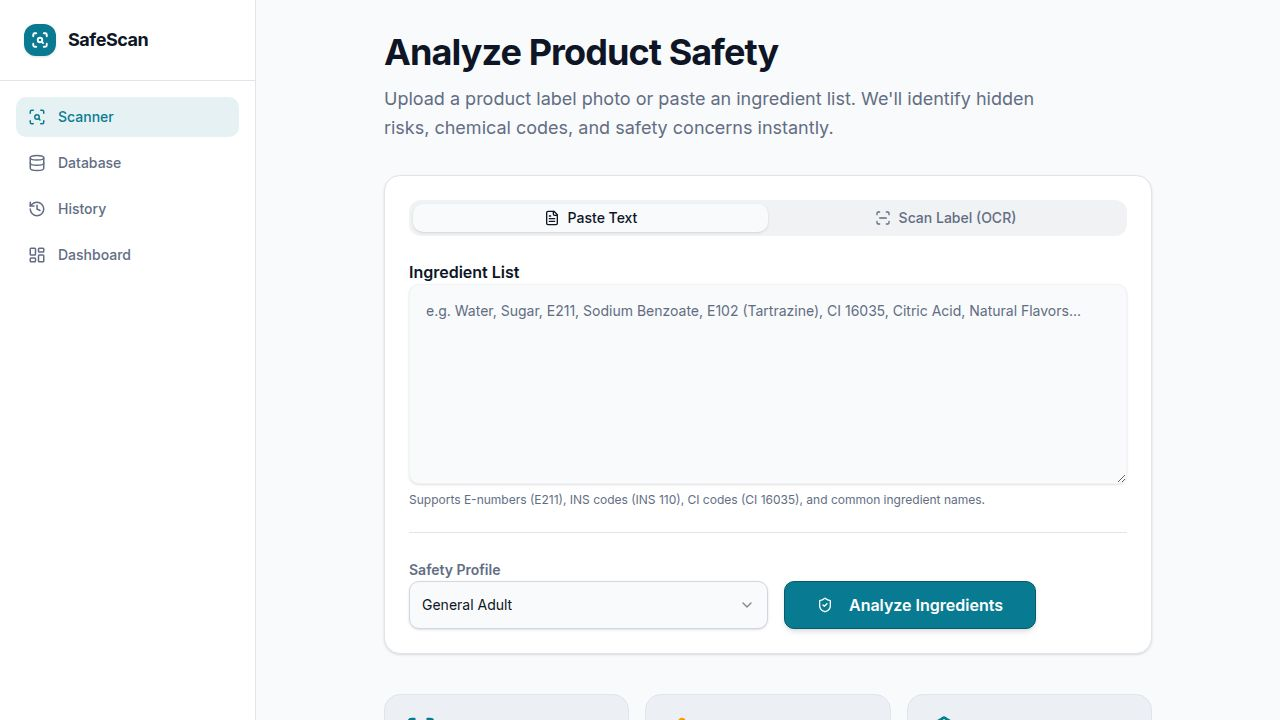
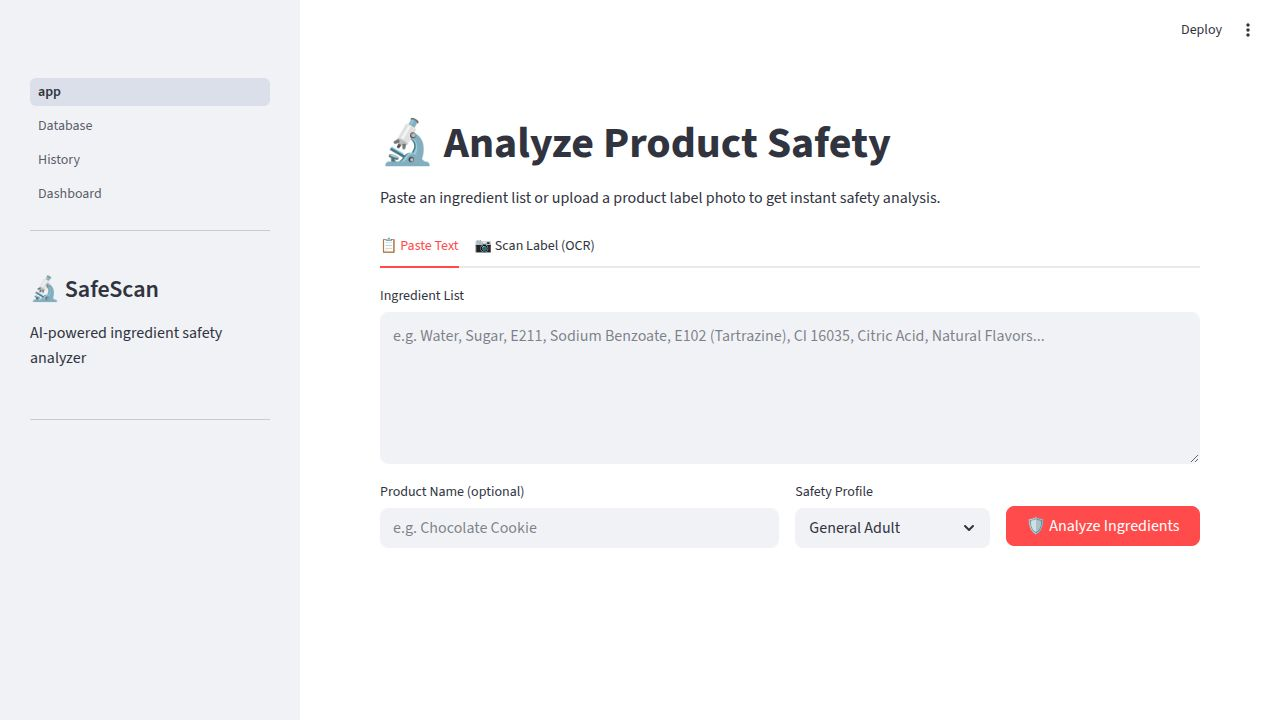
Improve image processing for accurate OCR extraction
Introduce an image enhancement module with options for upscaling, denoising, contrast adjustment, and more, integrated into the OCR tab for before/after comparison and user control.

Replit-Commit-Author: Agent
Replit-Commit-Session-Id: 01482dd7-11a2-4205-9c79-28d7f31dc8f4
Replit-Commit-Checkpoint-Type: full_checkpoint
Replit-Commit-Event-Id: 81c42d59-485f-40d7-bfc3-b8651a94a8b6
Replit-Commit-Screenshot-Url: https://storage.googleapis.com/screenshot-production-us-central1/8c9db342-34e8-4ade-9483-2f70121ae9e6/01482dd7-11a2-4205-9c79-28d7f31dc8f4/ZxV4JvU
Replit-Helium-Checkpoint-Created: true

diff --git a/artifacts/ingredient-scanner/streamlit_app/image_enhancer.py b/artifacts/ingredient-scanner/streamlit_app/image_enhancer.py
@@ -1,0 +1,161 @@
+import cv2
+import numpy as np
+from PIL import Image
+import io
+
+
+def pil_to_cv(img: Image.Image) -> np.ndarray:
+    img_rgb = img.convert("RGB")
+    return cv2.cvtColor(np.array(img_rgb), cv2.COLOR_RGB2BGR)
+
+
+def cv_to_pil(img: np.ndarray) -> Image.Image:
+    rgb = cv2.cvtColor(img, cv2.COLOR_BGR2RGB)
+    return Image.fromarray(rgb)
+
+
+def upscale(img: np.ndarray, target_min_dim: int = 1800) -> np.ndarray:
+    h, w = img.shape[:2]
+    min_dim = min(h, w)
+    if min_dim < target_min_dim:
+        scale = target_min_dim / min_dim
+        new_w = int(w * scale)
+        new_h = int(h * scale)
+        img = cv2.resize(img, (new_w, new_h), interpolation=cv2.INTER_LANCZOS4)
+    return img
+
+
+def remove_glare_and_shadows(img: np.ndarray) -> np.ndarray:
+    lab = cv2.cvtColor(img, cv2.COLOR_BGR2LAB)
+    l, a, b = cv2.split(lab)
+
+    kernel_size = max(img.shape[0] // 10, img.shape[1] // 10)
+    if kernel_size % 2 == 0:
+        kernel_size += 1
+    kernel_size = max(kernel_size, 51)
+
+    bg = cv2.GaussianBlur(l, (kernel_size, kernel_size), 0)
+    diff = cv2.subtract(bg, l)
+    norm = cv2.normalize(diff, None, 0, 255, cv2.NORM_MINMAX)
+    l_corrected = cv2.subtract(255, norm)
+
+    lab_corrected = cv2.merge([l_corrected, a, b])
+    result = cv2.cvtColor(lab_corrected, cv2.COLOR_LAB2BGR)
+    return result
+
+
+def denoise(img: np.ndarray) -> np.ndarray:
+    return cv2.fastNlMeansDenoisingColored(img, None, h=8, hColor=8, templateWindowSize=7, searchWindowSize=21)
+
+
+def deskew(img: np.ndarray) -> np.ndarray:
+    gray = cv2.cvtColor(img, cv2.COLOR_BGR2GRAY)
+    gray_inv = cv2.bitwise_not(gray)
+    thresh = cv2.threshold(gray_inv, 0, 255, cv2.THRESH_BINARY | cv2.THRESH_OTSU)[1]
+
+    coords = np.column_stack(np.where(thresh > 0))
+    if len(coords) < 10:
+        return img
+
+    angle = cv2.minAreaRect(coords)[-1]
+    if angle < -45:
+        angle = 90 + angle
+    elif angle > 45:
+        angle = angle - 90
+
+    if abs(angle) < 0.5:
+        return img
+
+    (h, w) = img.shape[:2]
+    center = (w // 2, h // 2)
+    M = cv2.getRotationMatrix2D(center, angle, 1.0)
+    rotated = cv2.warpAffine(img, M, (w, h), flags=cv2.INTER_CUBIC,
+                              borderMode=cv2.BORDER_REPLICATE)
+    return rotated
+
+
+def enhance_contrast(img: np.ndarray) -> np.ndarray:
+    lab = cv2.cvtColor(img, cv2.COLOR_BGR2LAB)
+    l, a, b = cv2.split(lab)
+    clahe = cv2.createCLAHE(clipLimit=2.5, tileGridSize=(8, 8))
+    l_enhanced = clahe.apply(l)
+    lab_enhanced = cv2.merge([l_enhanced, a, b])
+    return cv2.cvtColor(lab_enhanced, cv2.COLOR_LAB2BGR)
+
+
+def sharpen(img: np.ndarray) -> np.ndarray:
+    kernel = np.array([
+        [ 0, -1,  0],
+        [-1,  5, -1],
+        [ 0, -1,  0],
+    ], dtype=np.float32)
+    sharpened = cv2.filter2D(img, -1, kernel)
+
+    blurred = cv2.GaussianBlur(img, (0, 0), 3)
+    usm = cv2.addWeighted(img, 1.5, blurred, -0.5, 0)
+    result = cv2.addWeighted(sharpened, 0.5, usm, 0.5, 0)
+    return result
+
+
+def clean_background(img: np.ndarray) -> np.ndarray:
+    gray = cv2.cvtColor(img, cv2.COLOR_BGR2GRAY)
+    _, mask = cv2.threshold(gray, 0, 255, cv2.THRESH_BINARY + cv2.THRESH_OTSU)
+    kernel = cv2.getStructuringElement(cv2.MORPH_RECT, (3, 3))
+    mask = cv2.morphologyEx(mask, cv2.MORPH_CLOSE, kernel, iterations=2)
+    mask = cv2.morphologyEx(mask, cv2.MORPH_OPEN, kernel, iterations=1)
+    result = img.copy()
+    result[mask == 0] = 255
+    blended = cv2.addWeighted(img, 0.7, result, 0.3, 0)
+    return blended
+
+
+def enhance_for_ocr(pil_image: Image.Image, steps: dict | None = None) -> tuple[Image.Image, list[str]]:
+    if steps is None:
+        steps = {
+            "upscale": True,
+            "glare_shadow": True,
+            "denoise": True,
+            "deskew": True,
+            "contrast": True,
+            "sharpen": True,
+            "background": True,
+        }
+
+    img = pil_to_cv(pil_image)
+    applied = []
+
+    if steps.get("upscale", True):
+        img = upscale(img)
+        applied.append("Resolution upscaling")
+
+    if steps.get("glare_shadow", True):
+        img = remove_glare_and_shadows(img)
+        applied.append("Glare & shadow removal")
+
+    if steps.get("denoise", True):
+        img = denoise(img)
+        applied.append("Denoising")
+
+    if steps.get("deskew", True):
+        img = deskew(img)
+        applied.append("Text straightening (deskew)")
+
+    if steps.get("contrast", True):
+        img = enhance_contrast(img)
+        applied.append("Contrast enhancement (CLAHE)")
+
+    if steps.get("sharpen", True):
+        img = sharpen(img)
+        applied.append("Sharpening (USM + kernel)")
+
+    if steps.get("background", True):
+        img = clean_background(img)
+        applied.append("Background cleaning")
+
+    return cv_to_pil(img), applied
+
+
+def image_to_bytes(pil_image: Image.Image, fmt: str = "PNG") -> bytes:
+    buf = io.BytesIO()
+    pil_image.save(buf, format=fmt)
+    return buf.getvalue()

diff --git a/artifacts/ingredient-scanner/streamlit_app/app.py b/artifacts/ingredient-scanner/streamlit_app/app.py
@@ -1,11 +1,13 @@
 import streamlit as st
 import sys
 import os
+import io
 
 sys.path.insert(0, os.path.dirname(__file__))
 
 from database import init_db, save_scan
 from scan_engine import analyze_ingredients
+from image_enhancer import enhance_for_ocr, image_to_bytes
 
 init_db()
 
@@ -55,24 +57,111 @@ with tab_ocr:
     ocr_text = ""
     if uploaded_file is not None:
         from PIL import Image
-        import io
-        img = Image.open(uploaded_file)
-        st.image(img, caption="Uploaded label", use_container_width=True)
+        orig_img = Image.open(uploaded_file)
 
-        try:
-            import easyocr
-            with st.spinner("Reading text from image..."):
-                reader = easyocr.Reader(["en"], gpu=False)
-                img_bytes = io.BytesIO()
-                img.save(img_bytes, format="PNG")
-                result = reader.readtext(img_bytes.getvalue(), detail=0)
-                ocr_text = ", ".join(result)
-                st.success("Text extracted successfully!")
-                st.text_area("Extracted Text", ocr_text, height=120, key="ocr_result")
-        except ImportError:
-            st.warning("EasyOCR is not installed. Please install it with: `pip install easyocr`")
-        except Exception as e:
-            st.error(f"OCR failed: {e}")
+        st.markdown("#### Image Enhancement Options")
+        st.caption("Each step is applied in sequence to maximise OCR accuracy.")
+
+        enh_col1, enh_col2, enh_col3, enh_col4 = st.columns(4)
+        with enh_col1:
+            do_upscale   = st.checkbox("Resolution upscaling",      value=True, key="enh_upscale")
+            do_glare     = st.checkbox("Glare & shadow removal",    value=True, key="enh_glare")
+        with enh_col2:
+            do_denoise   = st.checkbox("Denoising",                 value=True, key="enh_denoise")
+            do_deskew    = st.checkbox("Text straightening",        value=True, key="enh_deskew")
+        with enh_col3:
+            do_contrast  = st.checkbox("Contrast enhancement",      value=True, key="enh_contrast")
+            do_sharpen   = st.checkbox("Sharpening",                value=True, key="enh_sharpen")
+        with enh_col4:
+            do_background = st.checkbox("Background cleaning",      value=True, key="enh_bg")
+            run_enhance  = st.button("✨ Enhance Image",            key="btn_enhance", use_container_width=True)
+
+        steps = {
+            "upscale":      do_upscale,
+            "glare_shadow": do_glare,
+            "denoise":      do_denoise,
+            "deskew":       do_deskew,
+            "contrast":     do_contrast,
+            "sharpen":      do_sharpen,
+            "background":   do_background,
+        }
+
+        if "enhanced_img" not in st.session_state:
+            st.session_state.enhanced_img = None
+            st.session_state.applied_steps = []
+
+        if run_enhance:
+            with st.spinner("Enhancing image for OCR…"):
+                enhanced, applied = enhance_for_ocr(orig_img, steps)
+                st.session_state.enhanced_img = enhanced
+                st.session_state.applied_steps = applied
+
+        before_col, after_col = st.columns(2)
+        with before_col:
+            st.markdown("**Original**")
+            st.image(orig_img, use_container_width=True)
+        with after_col:
+            st.markdown("**Enhanced**")
+            if st.session_state.enhanced_img is not None:
+                st.image(st.session_state.enhanced_img, use_container_width=True)
+                st.download_button(
+                    label="⬇️ Download enhanced image",
+                    data=image_to_bytes(st.session_state.enhanced_img),
+                    file_name="safescan_enhanced.png",
+                    mime="image/png",
+                    key="dl_enhanced",
+                )
+                if st.session_state.applied_steps:
+                    with st.expander("Applied enhancement steps"):
+                        for s in st.session_state.applied_steps:
+                            st.markdown(f"- {s}")
+            else:
+                st.info("Click **Enhance Image** to apply processing.")
+
+        st.markdown("---")
+        ocr_source = st.radio(
+            "Run OCR on:",
+            options=["enhanced", "original"],
+            format_func=lambda x: "Enhanced image" if x == "enhanced" else "Original image",
+            horizontal=True,
+            key="ocr_source",
+            disabled=st.session_state.enhanced_img is None,
+        )
+
+        run_ocr = st.button("🔍 Extract Text (OCR)", key="btn_ocr", type="primary")
+
+        if run_ocr:
+            ocr_img = st.session_state.enhanced_img if (ocr_source == "enhanced" and st.session_state.enhanced_img is not None) else orig_img
+            try:
+                import easyocr
+                with st.spinner("Reading text from image with EasyOCR…"):
+                    reader = easyocr.Reader(["en"], gpu=False)
+                    raw_bytes = image_to_bytes(ocr_img)
+                    ocr_results = reader.readtext(raw_bytes, detail=1)
+
+                detected_texts = []
+                for (bbox, text, confidence) in ocr_results:
+                    if confidence > 0.2:
+                        detected_texts.append(text)
+
+                ocr_text = ", ".join(detected_texts)
+                st.session_state["ocr_extracted"] = ocr_text
+
+                st.success(f"Extracted {len(detected_texts)} text region(s).")
+
+                with st.expander("Detailed OCR results (text + confidence)", expanded=False):
+                    for (bbox, text, confidence) in ocr_results:
+                        bar = "█" * int(confidence * 10)
+                        st.markdown(f"`{text}` — {confidence:.0%} {bar}")
+
+            except ImportError:
+                st.warning("EasyOCR is not installed. Run: `pip install easyocr`")
+            except Exception as e:
+                st.error(f"OCR failed: {e}")
+
+        if st.session_state.get("ocr_extracted"):
+            ocr_text = st.session_state["ocr_extracted"]
+            st.text_area("Extracted text (editable — correct any OCR mistakes before analyzing)", ocr_text, height=130, key="ocr_result")
 
 col1, col2, col3 = st.columns([2, 1, 1])
 with col1: